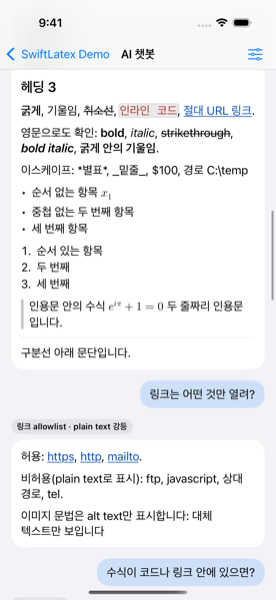
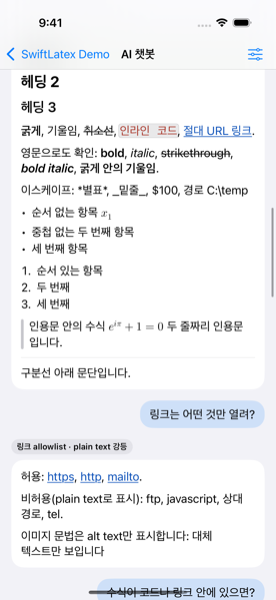
fix: keep inline equations from being clipped at line end
EquationTextAttachment가 폭을 남은 공간(proposedLineFragment.width - position.x)으로
clamp해 줄 끝의 수식을 실제보다 좁게 보고했다. TextKit은 "들어간다"고 판단해 줄을
바꾸지 않고, 수식은 그 좁은 폭에 잘려 그려졌다(화면에서 근호가 오른쪽에서 잘림).
줄 전체 폭을 기준으로 clamp해 안 들어가는 수식이 다음 줄로 내려가게 한다.

line fragment의 typographic 폭은 clamp된 값이라 이 결함을 드러내지 않는다. 회귀
테스트는 앞 텍스트 길이를 한 글자씩 늘려 수식을 줄 끝 모든 위치에 놓고, 그려진
수식 뷰가 intrinsic 폭보다 좁아지지 않는지 확인한다.

함께 고친 것
- 수식 Attachment 데모의 "직접 구성" 탭이 블록 정렬 주입을 무시하고 display 수식을
  중앙에 하드코딩하던 문제 — 메뉴 선택이 이제 반영된다
- 잘림이 남아 있던 README 스크린샷 재생성

diff --git a/Tests/SwiftLatexTests/EquationTextAttachmentTests.swift b/Tests/SwiftLatexTests/EquationTextAttachmentTests.swift
@@ -1,0 +1,117 @@
+// Created by JunyoungJung on 2026-08-24.
+
+import Foundation
+import Testing
+import UIKit
+@testable import SwiftLatex
+
+@MainActor
+@Suite("수식 attachment 줄 배치", .serialized)
+struct EquationTextAttachmentTests {
+    private static let containerWidth: CGFloat = 320
+
+    /// 컨테이너보다 좁은 수식은 줄 어디에 놓이든 제 크기로 그려져야 한다.
+    ///
+    /// 남은 공간(`proposedLineFragment.width - position.x`)으로 폭을 clamp하면 줄 끝의
+    /// 수식이 실제보다 좁게 보고돼 TextKit이 줄을 바꾸지 않고, 수식은 그 좁은 폭에
+    /// 잘려 그려진다 (실측 결함 — 화면에서 근호가 오른쪽에서 잘림). 줄 전체 폭을
+    /// 기준으로 clamp하면 안 들어가는 수식이 다음 줄로 내려가 온전히 보인다.
+    /// 앞 텍스트 길이를 한 글자씩 늘려 수식이 줄 끝 모든 위치에 걸리게 만든다.
+    /// 고정 문장 하나로는 수식이 줄 끝에 안 걸려 결함을 놓친다.
+    @Test func inlineEquationIsNeverSqueezedBelowIntrinsicWidth() throws {
+        var checked = 0
+        for padCount in 0..<28 {
+            let textView = makeTextView()
+            textView.attributedText = document(hasEquation: true, padCount: padCount)
+            let (equations, containerWidth) = layout(textView)
+
+            for equation in equations {
+                let intrinsic = equation.intrinsicContentSize.width
+                // 컨테이너 자체보다 넓은 수식만 clamp가 정당하다.
+                guard intrinsic <= containerWidth else { continue }
+                checked += 1
+                #expect(
+                    equation.bounds.width >= intrinsic - 0.5,
+                    "여백 \(padCount)자에서 수식이 \(intrinsic) → \(equation.bounds.width)로 찌그러진다"
+                )
+            }
+        }
+        #expect(checked > 0, "수식 뷰가 하나도 만들어지지 않았다")
+    }
+
+    /// 수식이 없는 같은 문장은 attachment를 만들지 않는다 — 대조군.
+    @Test func plainTextCreatesNoEquationView() throws {
+        let textView = makeTextView()
+        textView.attributedText = document(hasEquation: false, padCount: 0)
+        let (equations, _) = layout(textView)
+
+        #expect(equations.isEmpty)
+    }
+
+    // MARK: - 헬퍼
+
+    private func makeTextView() -> UITextView {
+        let textView = UITextView(usingTextLayoutManager: true)
+        textView.frame = CGRect(x: 0, y: 0, width: Self.containerWidth, height: 480)
+        textView.textContainerInset = .zero
+        textView.textContainer.lineFragmentPadding = 0
+        textView.isEditable = false
+        return textView
+    }
+
+    /// `padCount`만큼 앞 글자를 채워 수식의 줄 안 위치를 옮긴다.
+    /// Dynamic Type에 흔들리지 않도록 폰트 크기를 고정한다.
+    private func document(hasEquation: Bool, padCount: Int) -> NSAttributedString {
+        let font = UIFont.systemFont(ofSize: 17)
+        let attributes: [NSAttributedString.Key: Any] = [.font: font]
+        let result = NSMutableAttributedString(
+            string: String(repeating: "가", count: padCount),
+            attributes: attributes
+        )
+        for filler in [" 한글 사이에 ", " 조금 더 긴 문장을 두고 ", " 짧게 "] {
+            result.append(NSAttributedString(string: filler, attributes: attributes))
+            if hasEquation {
+                let attachment = EquationTextAttachment(
+                    latex: #"\sqrt{x^2+1} + \frac{a}{b}"#,
+                    source: #"\(\sqrt{x^2+1} + \frac{a}{b}\)"#,
+                    theme: .default,
+                    isDisplay: false,
+                    pointSize: font.pointSize
+                )
+                let string = NSMutableAttributedString(attachment: attachment)
+                string.addAttributes(
+                    attributes,
+                    range: NSRange(location: 0, length: string.length)
+                )
+                result.append(string)
+            }
+            result.append(NSAttributedString(
+                string: " 근호를 섞어도 baseline이 맞아야 합니다. ",
+                attributes: attributes
+            ))
+        }
+        return result
+    }
+
+    /// 레이아웃 후 그려진 수식 뷰들과 컨테이너 폭을 돌려준다.
+    private func layout(
+        _ textView: UITextView
+    ) -> (equations: [LatexEquationUIView], width: CGFloat) {
+        let window = UIWindow(frame: textView.frame)
+        window.addSubview(textView)
+        window.isHidden = false
+        defer { window.isHidden = true }
+
+        guard let layoutManager = textView.textLayoutManager,
+              let contentManager = layoutManager.textContentManager
+        else { return ([], Self.containerWidth) }
+        layoutManager.ensureLayout(for: contentManager.documentRange)
+        window.layoutIfNeeded()
+
+        func equationViews(in view: UIView) -> [LatexEquationUIView] {
+            if let equation = view as? LatexEquationUIView { return [equation] }
+            return view.subviews.flatMap(equationViews)
+        }
+        return (equationViews(in: textView), textView.textContainer.size.width)
+    }
+}

diff --git a/Examples/SwiftLatexDemo/Sources/AttachmentDemo.swift b/Examples/SwiftLatexDemo/Sources/AttachmentDemo.swift
@@ -172,6 +172,7 @@ struct ReadOnlyEquationDocumentView: UIViewRepresentable {
             handBuiltDocument(
                 theme: theme,
                 parsesDollarMath: parsesDollarMath,
+                blockAlignment: blockAlignment,
                 traitCollection: traitCollection
             )
         case .styler:
@@ -193,6 +194,7 @@ struct ReadOnlyEquationDocumentView: UIViewRepresentable {
     static func handBuiltDocument(
         theme: LatexTheme,
         parsesDollarMath: Bool,
+        blockAlignment: BlockAlignmentConfiguration = .default,
         traitCollection: UITraitCollection?
     ) -> NSAttributedString {
         let body = theme.bodyFont.resolvedUIFont(compatibleWith: traitCollection)
@@ -249,12 +251,13 @@ struct ReadOnlyEquationDocumentView: UIViewRepresentable {
             }
         }
         // display 수식 — isDisplay가 baseline을 줄 높이만큼 내려 블록처럼 배치한다.
+        // 정렬은 메뉴에서 주입한 `BlockAlignmentConfiguration.equation`을 따른다.
         func appendDisplay(_ latex: String) {
-            let centered = NSMutableParagraphStyle()
-            centered.alignment = .center
-            centered.paragraphSpacing = 12
+            let paragraph = NSMutableParagraphStyle()
+            paragraph.alignment = blockAlignment.equation
+            paragraph.paragraphSpacing = 12
             var displayAttributes = attributes(font: body)
-            displayAttributes[.paragraphStyle] = centered
+            displayAttributes[.paragraphStyle] = paragraph
             result.append(attachmentString(
                 EquationTextAttachment(
                     latex: latex,

diff --git a/Sources/SwiftLatex/EquationTextAttachment.swift b/Sources/SwiftLatex/EquationTextAttachment.swift
@@ -119,7 +119,10 @@ private final class EquationAttachmentViewProvider: NSTextAttachmentViewProvider
                 position: position
             )
         }
-        let availableWidth = max(proposedLineFragment.width - position.x, 1)
+        // 남은 공간(`- position.x`)으로 clamp하면 줄 끝의 수식을 실제보다 좁게 보고해
+        // TextKit이 줄을 바꾸지 않고 뒤 텍스트를 이어 붙인다(오른쪽 잘림). 줄 전체 폭을
+        // 기준으로 clamp해야 안 들어가는 수식이 다음 줄로 내려간다.
+        let availableWidth = max(proposedLineFragment.width, 1)
         let width = min(max(intrinsic.width, 1), availableWidth)
         let font = attributes[.font] as? UIFont
         return CGRect(

diff --git a/CHANGELOG.md b/CHANGELOG.md
@@ -49,6 +49,13 @@
   유지) 추가. SwiftUI·UIKit 렌더러의 블록 수식이 뷰포트보다 좁을 때 지정 방향으로
   정렬되고, 넓으면 기존처럼 가로 스크롤한다.
 
+### 수정
+
+- **줄 끝 인라인 수식이 잘리던 문제.** `EquationTextAttachment`가 폭을 남은 공간
+  (`proposedLineFragment.width - position.x`)으로 clamp해, 줄 끝에 놓인 수식을 실제보다
+  좁게 보고했다. TextKit은 "들어간다"고 판단해 줄을 바꾸지 않고 수식은 그 좁은 폭에
+  잘려 그려졌다. 줄 전체 폭을 기준으로 clamp해 안 들어가는 수식은 다음 줄로 내려간다.
+
 ### 데모
 
 - **수식 Attachment (읽기 전용) 화면 추가.** `EquationTextAttachment` 직접 배치와
